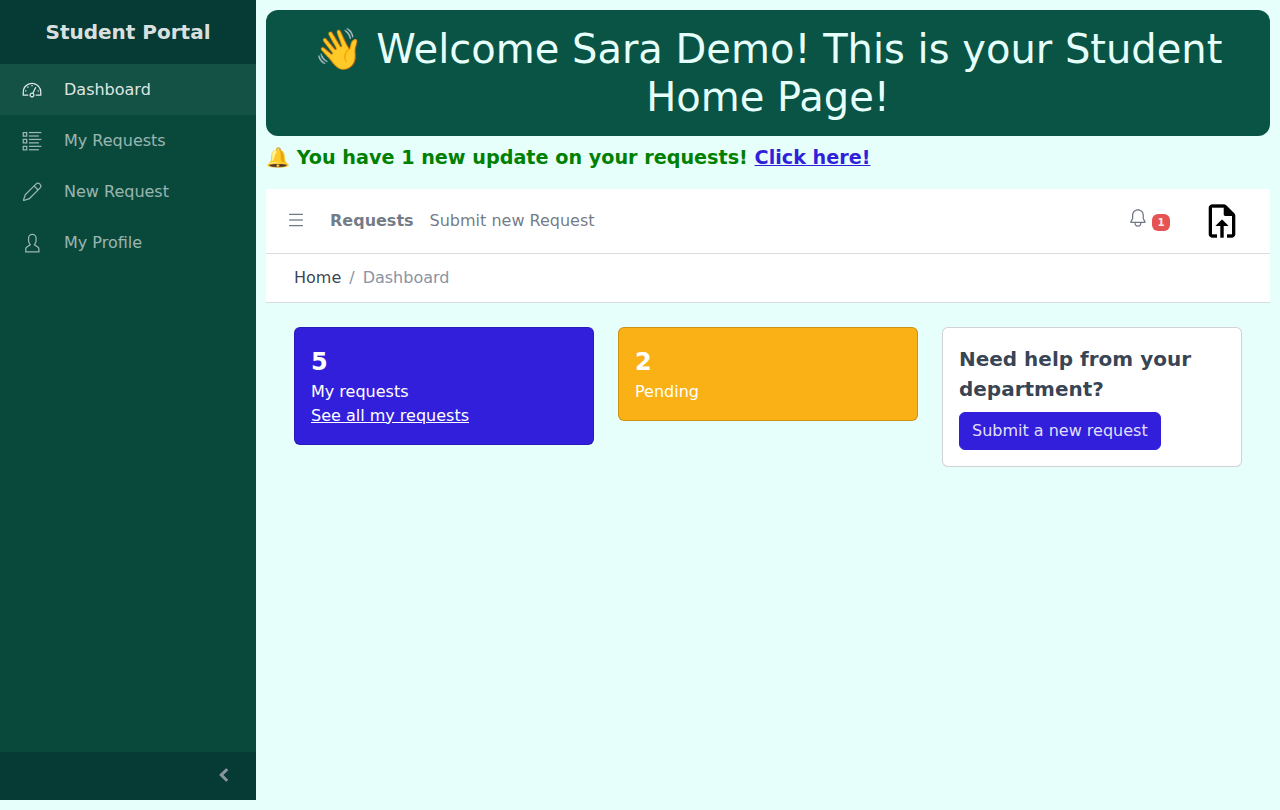
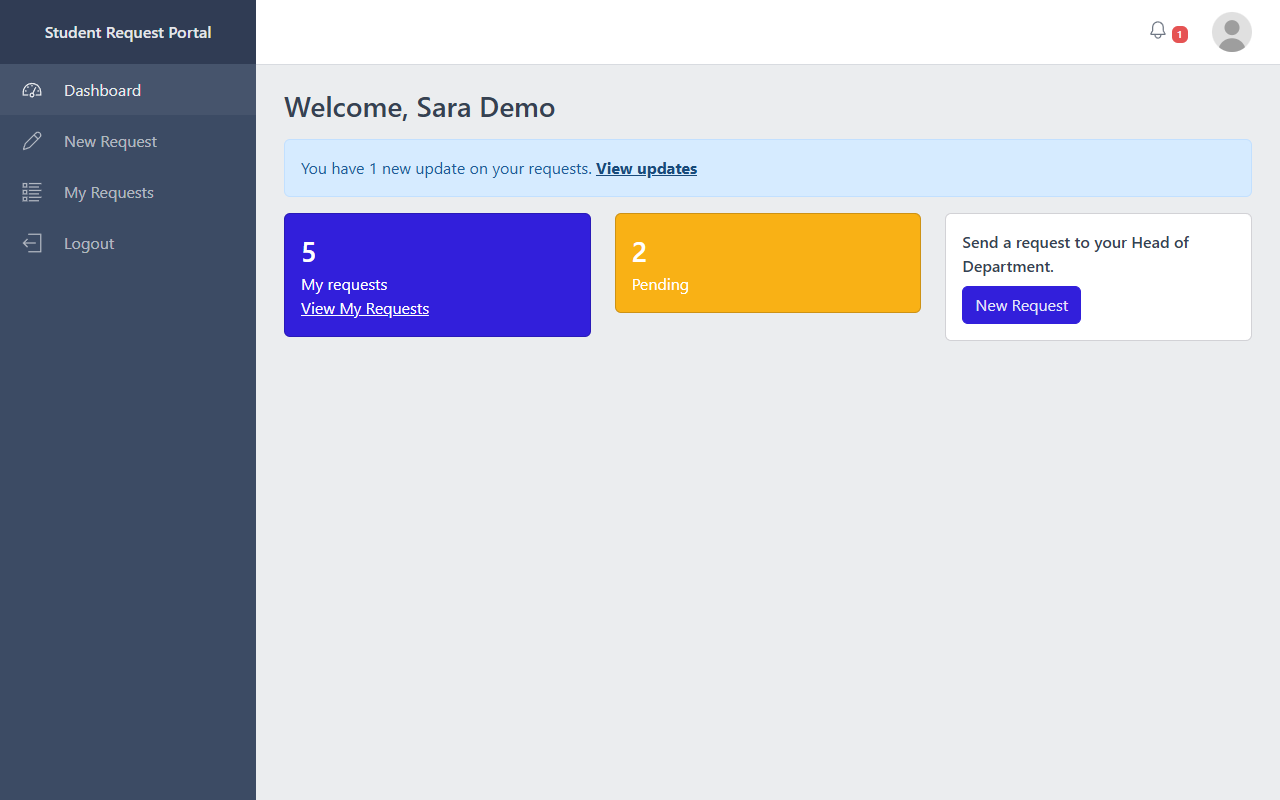
Update the demo script, README and screenshots for the new navigation
DEMO_SCRIPT.md now uses the left menu (New Request, Logout, Review
Requests), the new labels ("View updates", "Decision", "Estimated
completion") and the new order of the lists (the new request is the first
row). The README lists the menu, the status filter and the default avatar,
and the two dashboard screenshots show the new layout.

diff --git a/docs/DEMO_SCRIPT.md b/docs/DEMO_SCRIPT.md
@@ -3,27 +3,31 @@
 Before recording: run `npm run demo` and open http://localhost:8000 in a fresh browser window.
 The password for every demo account is `Demo@1234`.
 
+Every page after login has the same left menu. Student: **Dashboard**, **New Request**, **My Requests**, **Logout**. Head of Department: **Dashboard**, **Review Requests**, **Logout**. The page that is open is highlighted.
+
 | Time | Screen | What to click / type | What to say (short) |
 |---|---|---|---|
 | 0:00 | Login | Type `sara@example.com` and `Demo@1234`, click **Login** | "I log in as a student." |
-| 0:08 | Student dashboard | Point at the cards (my requests, pending) and the "1 new update" line | "The dashboard shows my own requests." |
-| 0:13 | Student dashboard | Click **New Request** in the left menu | |
-| 0:16 | New request form | Semester **Winter 2025**, Category **Registration**, Description `Please add me to the evening section of Web Technologies 2.` Click **Submit Request** | "I send a request to my Head of Department." |
-| 0:28 | My Requests | Point at the new row (last row): status **Pending** and the **Estimated Resolution By** date | "The app estimates when it will be handled: 15 minutes for each request waiting in the same category, only in working hours, Sunday to Thursday." |
-| 0:38 | My Requests | Click **Back to HomePage**, then the round avatar at the top right, then **Logout** | |
-| 0:43 | Login | Type `hod@example.com` and `Demo@1234`, click **Login** | "Now I log in as the Head of Department." |
-| 0:48 | HoD dashboard | Point at the Pending / Approved / Rejected cards | "These numbers come from the database." |
-| 0:53 | HoD dashboard | Click **Review requests** | |
-| 0:56 | Student requests | Scroll to the bottom of the Student Request List; on Sara Demo's new **Registration / Pending** row click **View** | "Here are all requests, with queues per category." |
-| 1:02 | Request details | Change Status: **Approved**. Note: `Added to the evening section.` Click **Process Request** | "I approve it with a note." |
-| 1:12 | Student requests | The row now says **Approved**. Click **Back to Dashboard** at the top, then **Logout** in the left menu | |
-| 1:17 | Login | Type `sara@example.com` and `Demo@1234`, click **Login** | "Back as the student." |
-| 1:21 | Student dashboard | Point at "You have 2 new updates" and the red number on the bell. Click **Click here!** | "I get a badge when my request is decided." |
-| 1:25 | My Requests | On the Registration row with the **New update** label and status **Approved**, click **View** | |
-| 1:28 | Request details | Point at **Status: Approved** and **Note from HoD** | "I can read the Head of Department's note. Opening it marks it as seen, so the badge goes down by one." |
+| 0:06 | Student dashboard | Point at the cards (My requests, Pending) and the line "You have 1 new update on your requests." | "The dashboard shows my own requests." |
+| 0:11 | Student dashboard | Click **New Request** in the left menu | |
+| 0:14 | New Request | Semester **Winter 2025**, Category **Registration**, Description `Please add me to the evening section of Web Technologies 2.` Click **Submit Request** | "I send a request to my Head of Department." |
+| 0:26 | My Requests | Point at the message "Request submitted." and the first row: status **Pending** and the **Estimated completion** date | "The app estimates when it will be handled: 15 minutes for each request waiting in the same category, only in working hours, Sunday to Thursday." |
+| 0:36 | My Requests | Click **Logout** in the left menu | |
+| 0:40 | Login | Type `hod@example.com` and `Demo@1234`, click **Login** | "Now I log in as the Head of Department." |
+| 0:45 | HoD dashboard | Point at the Pending / Approved / Rejected cards | "These numbers come from the database." |
+| 0:50 | HoD dashboard | Click **Review Requests** in the left menu | |
+| 0:53 | Review Requests | Point at the queue cards, then at the first row of Student Requests: Sara Demo, **Registration**, the new description, **Pending**. Click **View** on that row | "Here are all requests, newest first, with a queue for each category." |
+| 0:58 | Request Details | Decision: **Approved**. Note: `Added to the evening section.` Click **Process Request** | "I approve it with a note." |
+| 1:08 | Review Requests | Point at the message "Request approved." and the first row, which now says **Approved**. Click **Logout** in the left menu | |
+| 1:14 | Login | Type `sara@example.com` and `Demo@1234`, click **Login** | "Back as the student." |
+| 1:18 | Student dashboard | Point at "You have 2 new updates on your requests." and the red 2 on the bell. Click **View updates** | "I get a badge when my request is decided." |
+| 1:23 | My Requests | On the first row (Registration, **Approved**, **New update**), click **View** | |
+| 1:26 | Request Details | Point at **Status: Approved** and **Note from HoD** | "I can read the Head of Department's note. Opening it marks it as seen, so the badge goes down by one." |
 | 1:30 | | End | |
 
 Notes
-- "2 new updates": the demo data already has one approved request Sara has not opened, plus the one approved in this video. After opening the new one the dashboard shows "1 new update".
+- "2 new updates": the demo data already has one approved request Sara has not opened, plus the one approved in this video. After opening the new one the bell shows 1.
+- Detail pages have a "Back to ..." link at the top; the browser Back button also works.
+- The app name at the top always goes to the dashboard. On a small screen the left menu is behind the menu button at the top left.
 - If you record several takes, stop the demo with Ctrl+C and run `npm run demo` again to start with fresh data.
 - Wrong passwords are limited to 10 tries per 15 minutes; restarting the demo resets that too.

diff --git a/README.md b/README.md
@@ -19,14 +19,18 @@ Student:
 - Submit a request. It gets an estimated completion time: 15 minutes for every request already waiting in the same category, counted only from 9am to 5pm, Sunday to Thursday
 - See my requests, open one to read the Head of Department's note, and cancel requests that are still pending
 - A badge shows decisions I have not opened yet
-- Profile page where I can change my picture
+- Profile page where I can change my picture (users without one get a grey default avatar)
 - Forgot / reset password (the reset link is printed in the server console)
 
 Head of Department:
 - Dashboard with the number of pending, approved and rejected requests
-- List of all requests, with filters by category and semester
+- List of all requests, newest first, with filters by category, semester and status
 - A queue for each category, and a button that picks a random pending request
 - Approve or reject a request with a note
+
+Both roles:
+- The same left menu on every page after login, with the open page highlighted; on a phone it opens from the menu button
+- Detail pages have a "Back to ..." link, and a short message confirms each action (for example "Request submitted.")
 
 ## Tech stack
 
